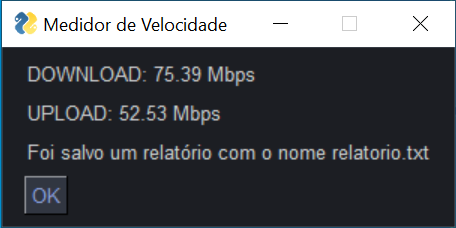
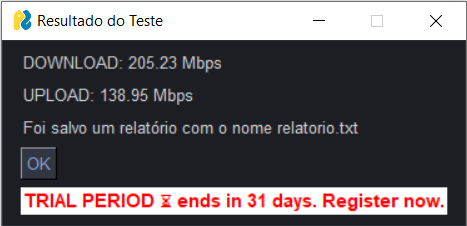
add new poup, and update in readme

diff --git a/main.py b/main.py
@@ -9,20 +9,20 @@ def medir_velocidade():
     hour = now.strftime("%H:%M")
 
     try:
-        print('Medindo...')
-        download = (test.download()) / 1e+6
-        upload = (test.upload()) / 1e+6
+        sg.popup('Medindo (Isto pode levar alguns instantes)...')
+        download = test.download() / 1e+6  # Conversão para Mbps
+        upload = test.upload() / 1e+6
 
-        velocidade_download = 'DOWNLOAD: {:.2f} Mbps'.format(download)
-        velocidade_upload = 'UPLOAD: {:.2f} Mbps'.format(upload)
+        velocidade_download = f'DOWNLOAD: {download:.2f} Mbps'
+        velocidade_upload = f'UPLOAD: {upload:.2f} Mbps'
 
         with open('relatorio.txt', 'a') as arquivo:
-            arquivo.write('\n{} - {}    Download:{:.2f} Mbps    Upload:{:.2f} Mbps'.format(date, hour, download, upload))
+            arquivo.write(f'\n{date} - {hour}    Download: {download:.2f} Mbps    Upload: {upload:.2f} Mbps')
 
         return velocidade_download, velocidade_upload
 
-    except:
-        print('[ERRO]: ao conectar ao servidor')
+    except Exception as e:
+        return '[ERRO]: ao conectar ao servidor', str(e)
 
 def first_window():
     sg.theme('Dark Grey 13') 
@@ -33,17 +33,11 @@ def first_window():
             ]
 
     window = sg.Window('Medidor de Velocidade', layout, size=(300, 70))
-    while True:
-        event, values = window.read()
-        if event == sg.WIN_CLOSED or event == 'Cancelar':
-            cancel = True
-            window.close()
-            return cancel
-            break
-        else:
-            cancel = False
-            window.close()
-            return cancel
+    event, values = window.read()
+    window.close()
+
+    return event == 'Iniciar'
+
 def last_window(download, upload):
     layout = [ 
         [sg.Text(download)],
@@ -52,18 +46,17 @@ def last_window(download, upload):
         [sg.Button('OK')]
     ]
 
-    window_res = sg.Window('Medidor de Velocidade', layout)
+    window_res = sg.Window('Resultado do Teste', layout)
 
     event, values = window_res.read()
-    if event == sg.WIN_CLOSED or event == 'Ok':
-        window_res.close()
+    window_res.close()
 
+def main():
+    if first_window():
+        velocidade_download, velocidade_upload = medir_velocidade()
+        last_window(velocidade_download, velocidade_upload)
+    else:
+        sg.popup('Teste cancelado.')
 
-cancel = first_window()
-if cancel == True:
-    print('Cancelou')
-else:
-    print('Não cancelou')
-    velocidade_download, velocidade_upload = medir_velocidade()
-    last_window(velocidade_download, velocidade_upload)
-
+if __name__ == "__main__":
+    main()

diff --git a/README.md b/README.md
@@ -1,18 +1,30 @@
-# Medidor de velocidade de internet
+# Medidor de Velocidade de Internet
 
-## Dependencias
-- speedtest-cli
-- pandas
-- pysimplegui
+Este projeto é uma aplicação simples para medir a velocidade da sua conexão de internet, exibindo os resultados na tela e salvando-os em um arquivo de texto.
 
-## Como usar
-Execute o <strong>main.py</strong> e selecione Iniciar, após alguns instantes os dados serão exibidos na tela e salvos no arquivo txt.
+## Dependências
+
+Para executar este projeto, você precisará das seguintes bibliotecas Python:
+
+- `speedtest-cli`
+- `pandas`
+- `PySimpleGUI`
+
+Você pode instalar as dependências usando o `pip`:
+
+```bash
+pip install speedtest-cli pandas PySimpleGUI
+
+```
 
 
-|<img align="center" src="assets-github/tela1.png" alt="" />|
-| ------------- |
 
-|<img align="center" src="assets-github/tela2.png" />|
- ------------- |
+## Imagens
 
-|<img align="center" src="assets-github/txt.png" />|
+Aqui estão algumas imagens adicionais da aplicação:
+
+![Tela de Resultados](assets-github/tela2.png)  
+*Resultado do teste de velocidade*
+
+![Arquivo de Relatório](assets-github/txt.png)  
+*Exemplo do arquivo relatorio.txt*
